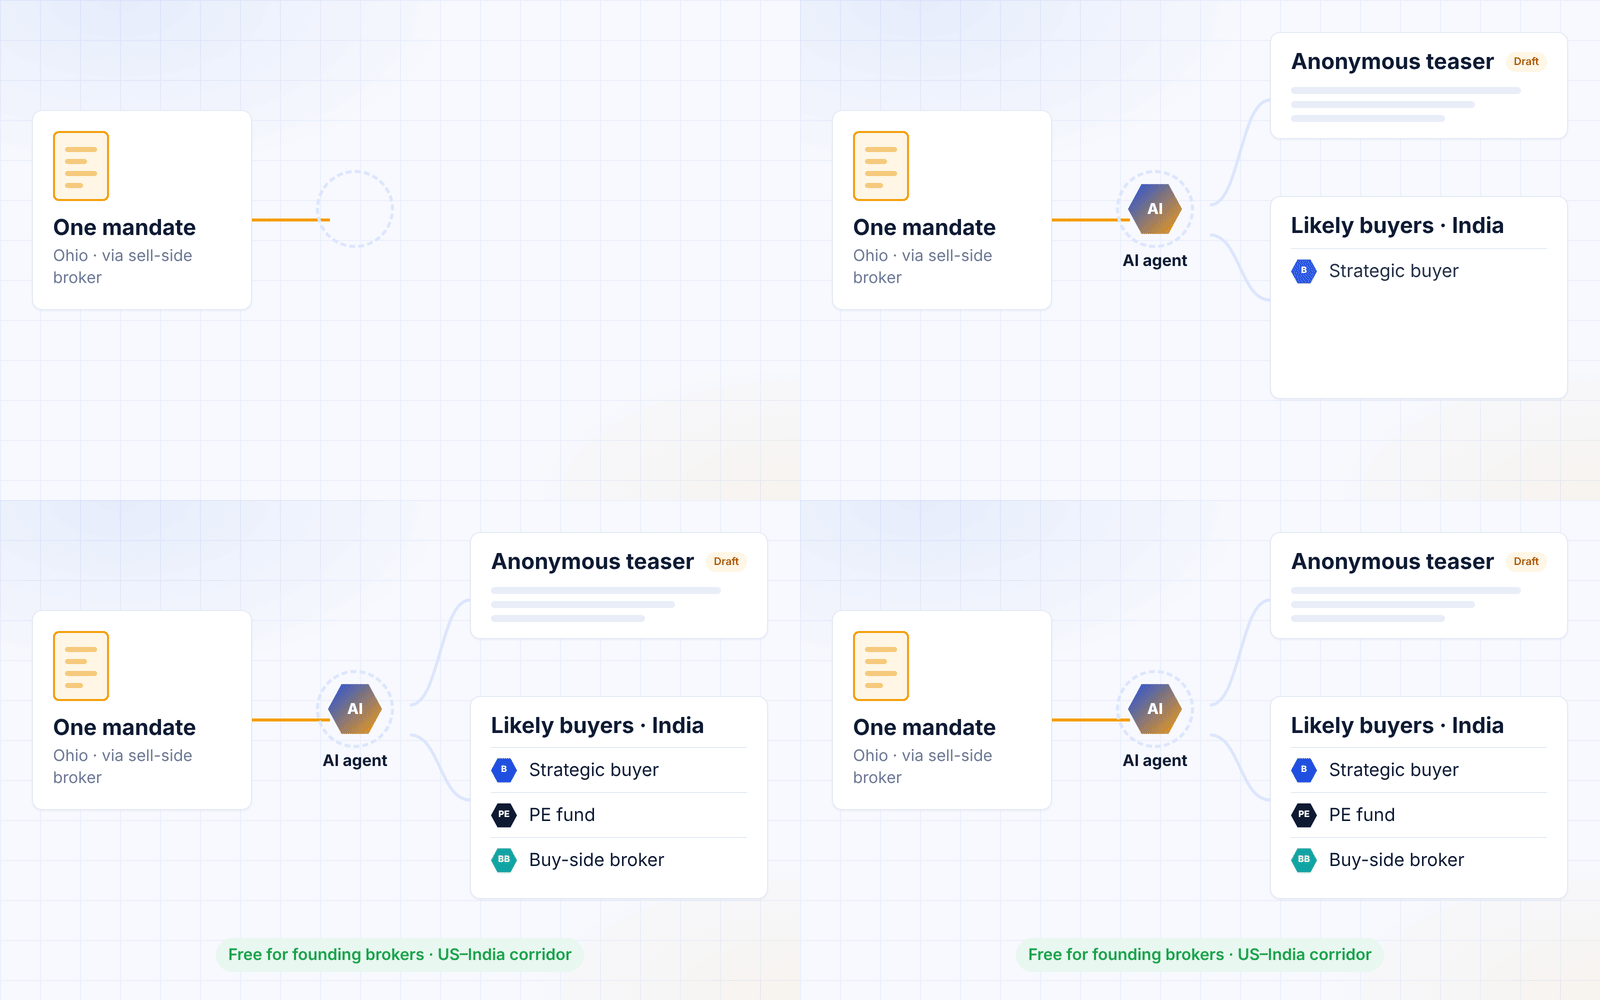
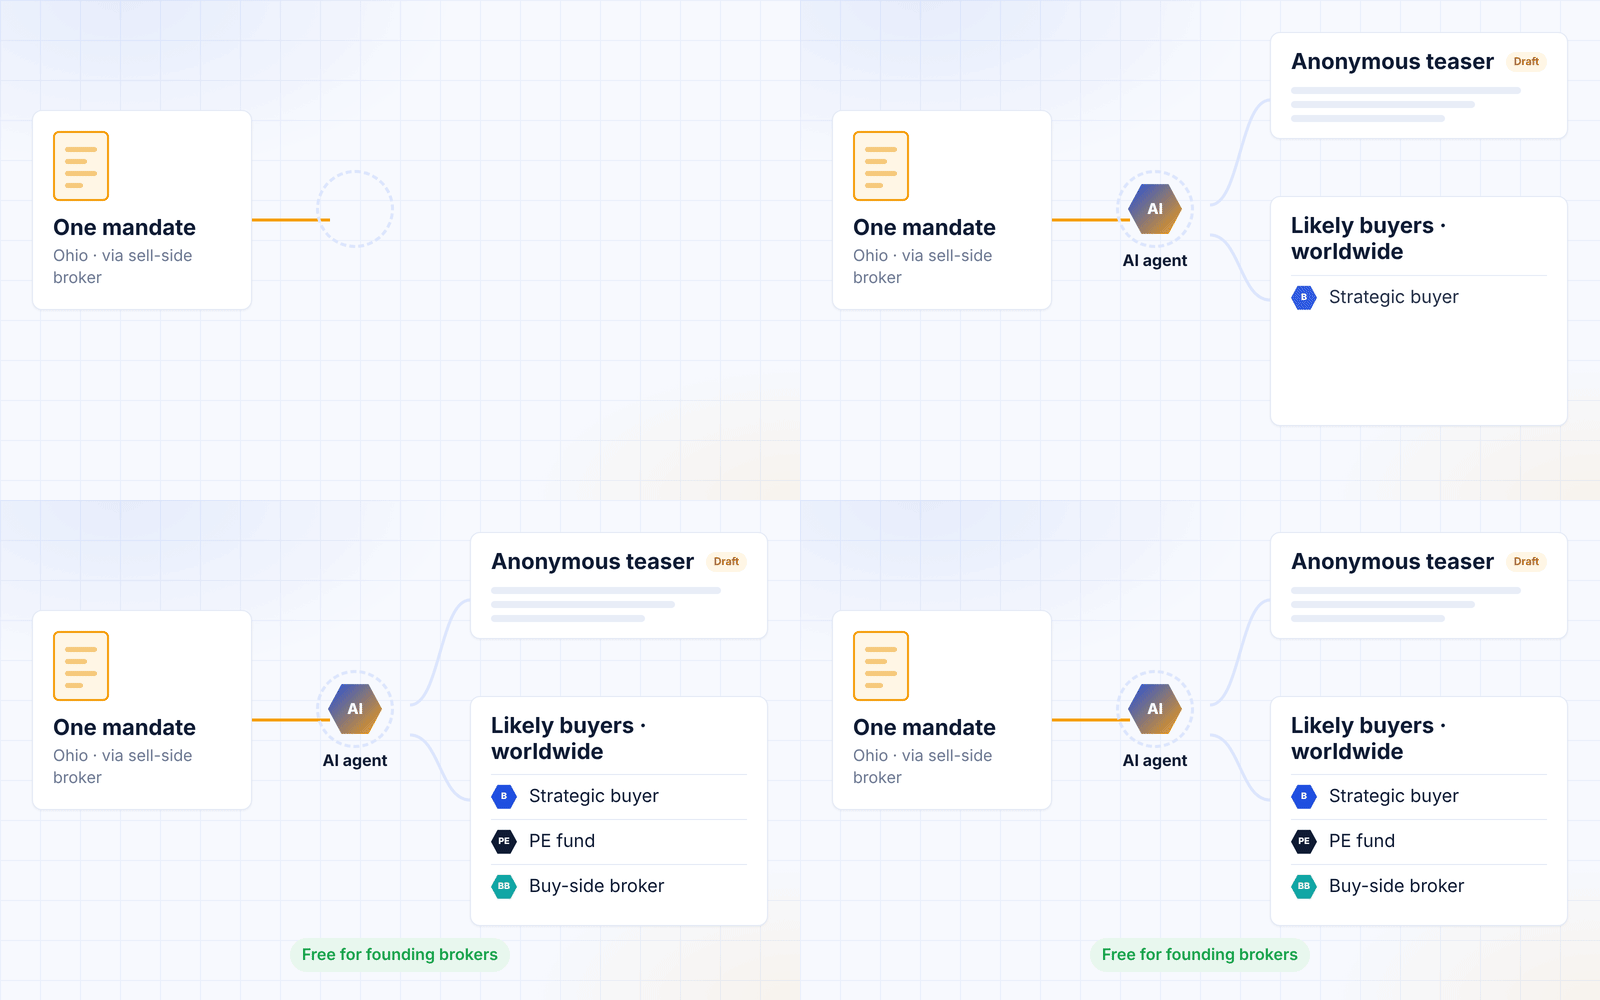
Globalize map visuals: hero fans out worldwide, new global-buyers scene replaces corridors-roadmap, Japan stat in opportunity; regenerate review strips
Claude-Session: https://claude.ai/code/session_013sJALjyn2FyxQTA8AYsoWu

diff --git a/visuals/src/global-buyers.html b/visuals/src/global-buyers.html
@@ -12,7 +12,7 @@ svg.ov{position:absolute;left:0;top:0;width:800px;height:500px;overflow:visible}
 .pin.us{width:20px;height:20px;margin:-10px 0 0 -10px;background:var(--saffron);animation:pop .4s .2s both,pulse 1.6s ease-out .2s infinite}
 .pin.dom{background:var(--saffron)}
 /* visibility switch */
-.sw{position:absolute;left:24px;top:330px;padding:12px 14px}
+.sw{position:absolute;left:24px;top:328px;padding:12px 14px}
 .sw .k{font-size:13px;font-weight:800;letter-spacing:.1em;text-transform:uppercase;color:var(--ink-3);margin-bottom:8px}
 .seg{position:relative;display:grid;grid-template-columns:repeat(3,auto);background:#EEF1F7;border-radius:10px;padding:4px}
 .seg span{position:relative;z-index:1;font-size:16px;font-weight:700;padding:8px 14px;color:var(--ink-2);white-space:nowrap;text-align:center}
@@ -27,7 +27,7 @@ svg.ov{position:absolute;left:0;top:0;width:800px;height:500px;overflow:visible}
 @keyframes c1{0%,31%{color:#fff}34%,100%{color:var(--ink-2)}}
 @keyframes c2{0%,31%{color:var(--ink-2)}34%,55%{color:#fff}58%,100%{color:var(--ink-2)}}
 @keyframes c3{0%,55%{color:var(--ink-2)}58%,100%{color:#fff}}
-.who{position:absolute;right:24px;top:418px;padding:12px 18px;display:grid;gap:4px;white-space:nowrap}
+.who{position:absolute;right:24px;top:430px;padding:12px 18px;display:grid;gap:4px;white-space:nowrap}
 .who .k{font-size:13px;font-weight:800;letter-spacing:.1em;text-transform:uppercase;color:var(--ink-3)}
 </style></head>
 <body data-ms="10000" style="--T:10s"><div class="stage">

diff --git a/visuals/worldmap.py b/visuals/worldmap.py
@@ -43,5 +43,5 @@ svg = [f'<svg xmlns="http://www.w3.org/2000/svg" viewBox="0 0 {W} {H}" width="{W
 svg += [f'<circle cx="{x}" cy="{y}" r="{r:.2f}" fill="#B9C6E4"/>' for x, y in dots]
 svg.append('</svg>')
 open(sys.argv[2] if len(sys.argv) > 2 else 'worldmap.svg', 'w').write('\n'.join(svg))
-pins = {k: [round(v,1) for v in proj(*ll)] for k, ll in {"ohio":(-83,40),"texas":(-97,31),"california":(-120,37),"pune":(74,18.5),"mumbai":(73,19),"delhi":(77,28.6),"tokyo":(139.7,35.7),"germany":(10,51),"london":(0,51.5),"dubai":(55,25)}.items()}
+pins = {k: [round(v,1) for v in proj(*ll)] for k, ll in {"ohio":(-83,40),"texas":(-97,31),"california":(-120,37),"saopaulo":(-46.6,-23.5),"sydney":(151,-33.9),"singapore":(103.8,1.3),"tokyo":(139.7,35.7),"germany":(10,51),"london":(0,51.5),"dubai":(55,25)}.items()}
 print(len(dots), "dots"); print(json.dumps(pins))
